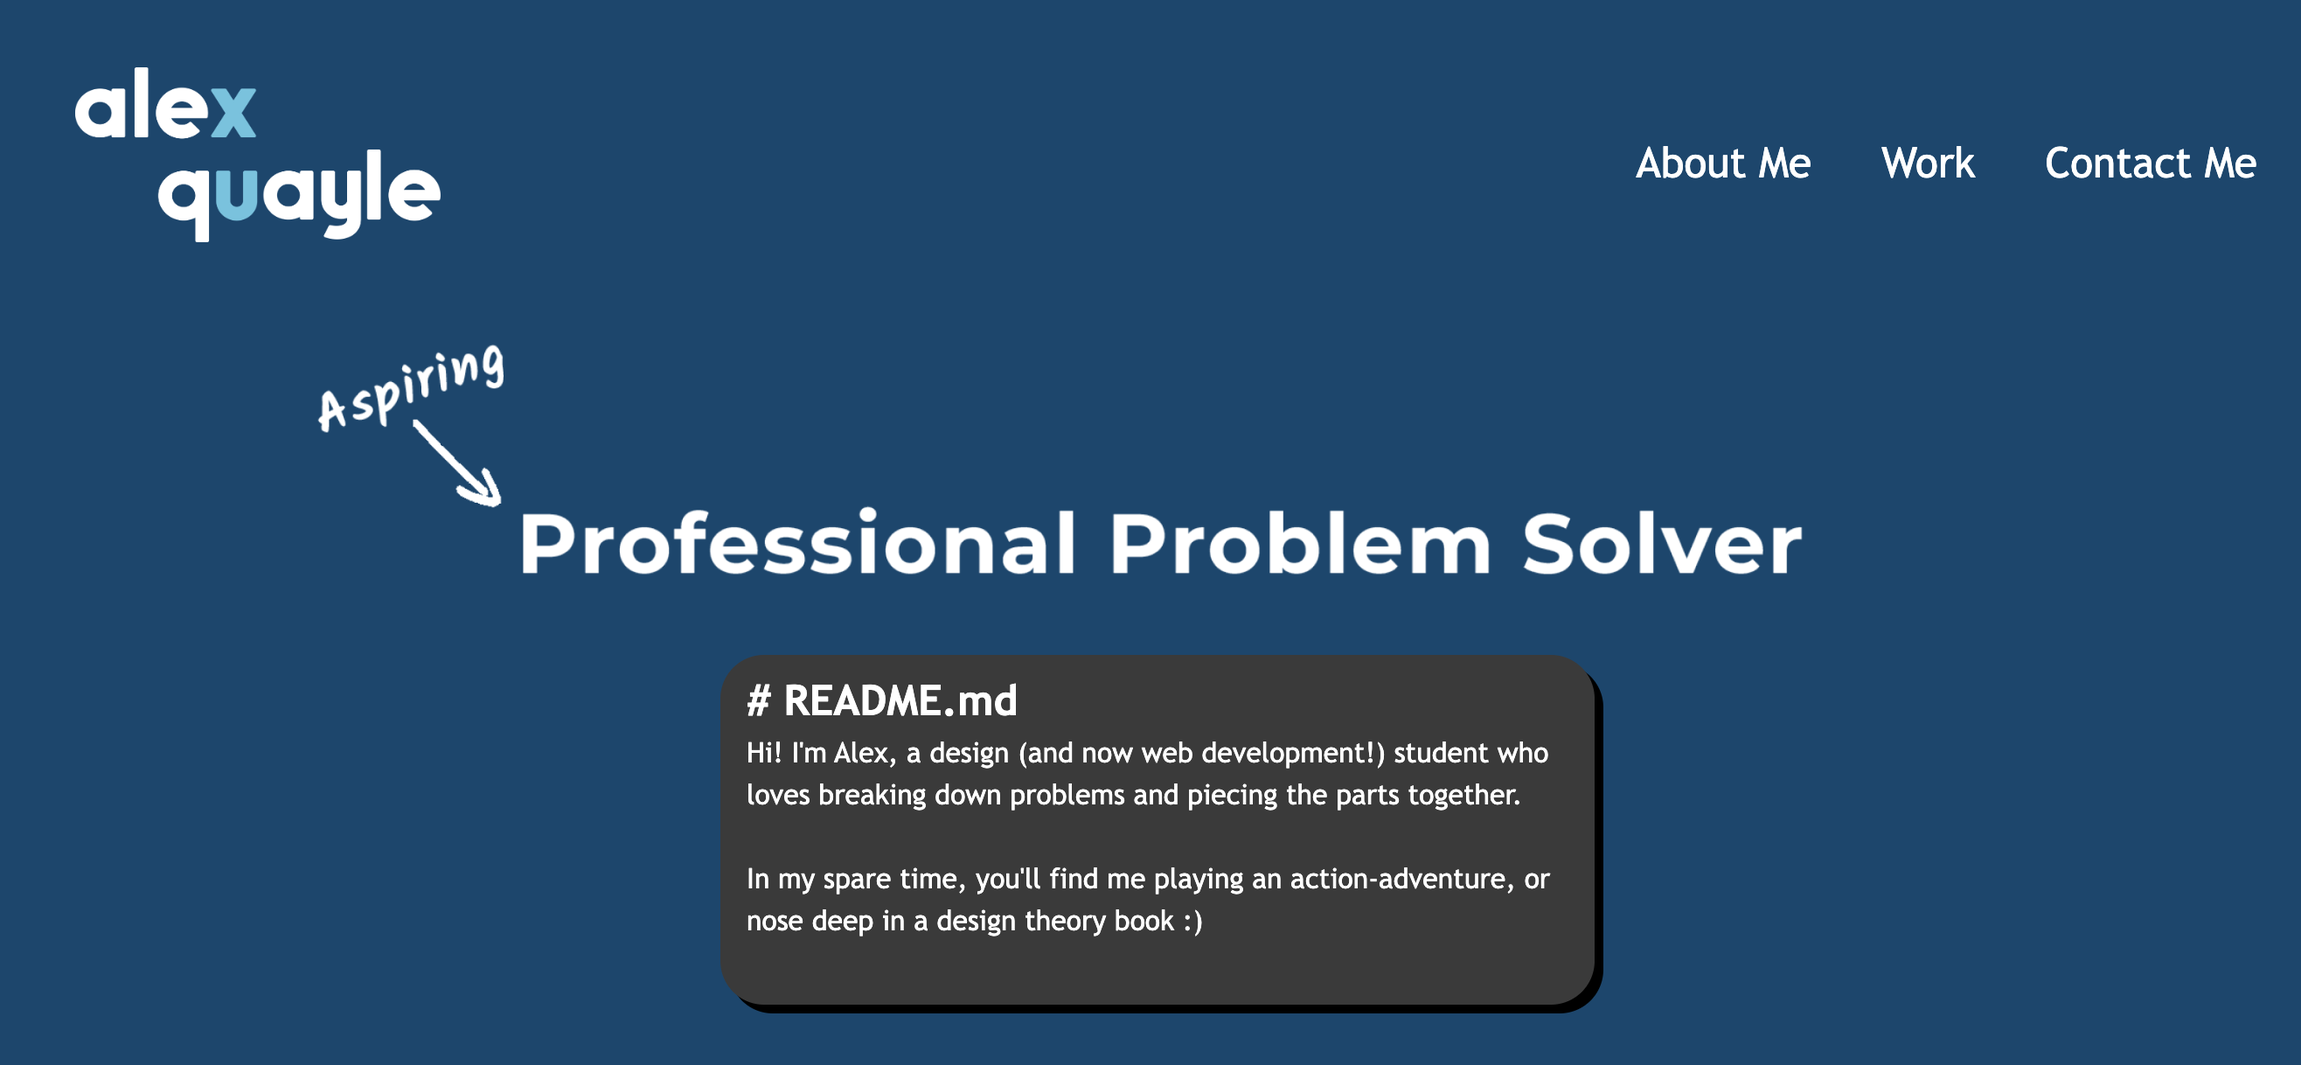
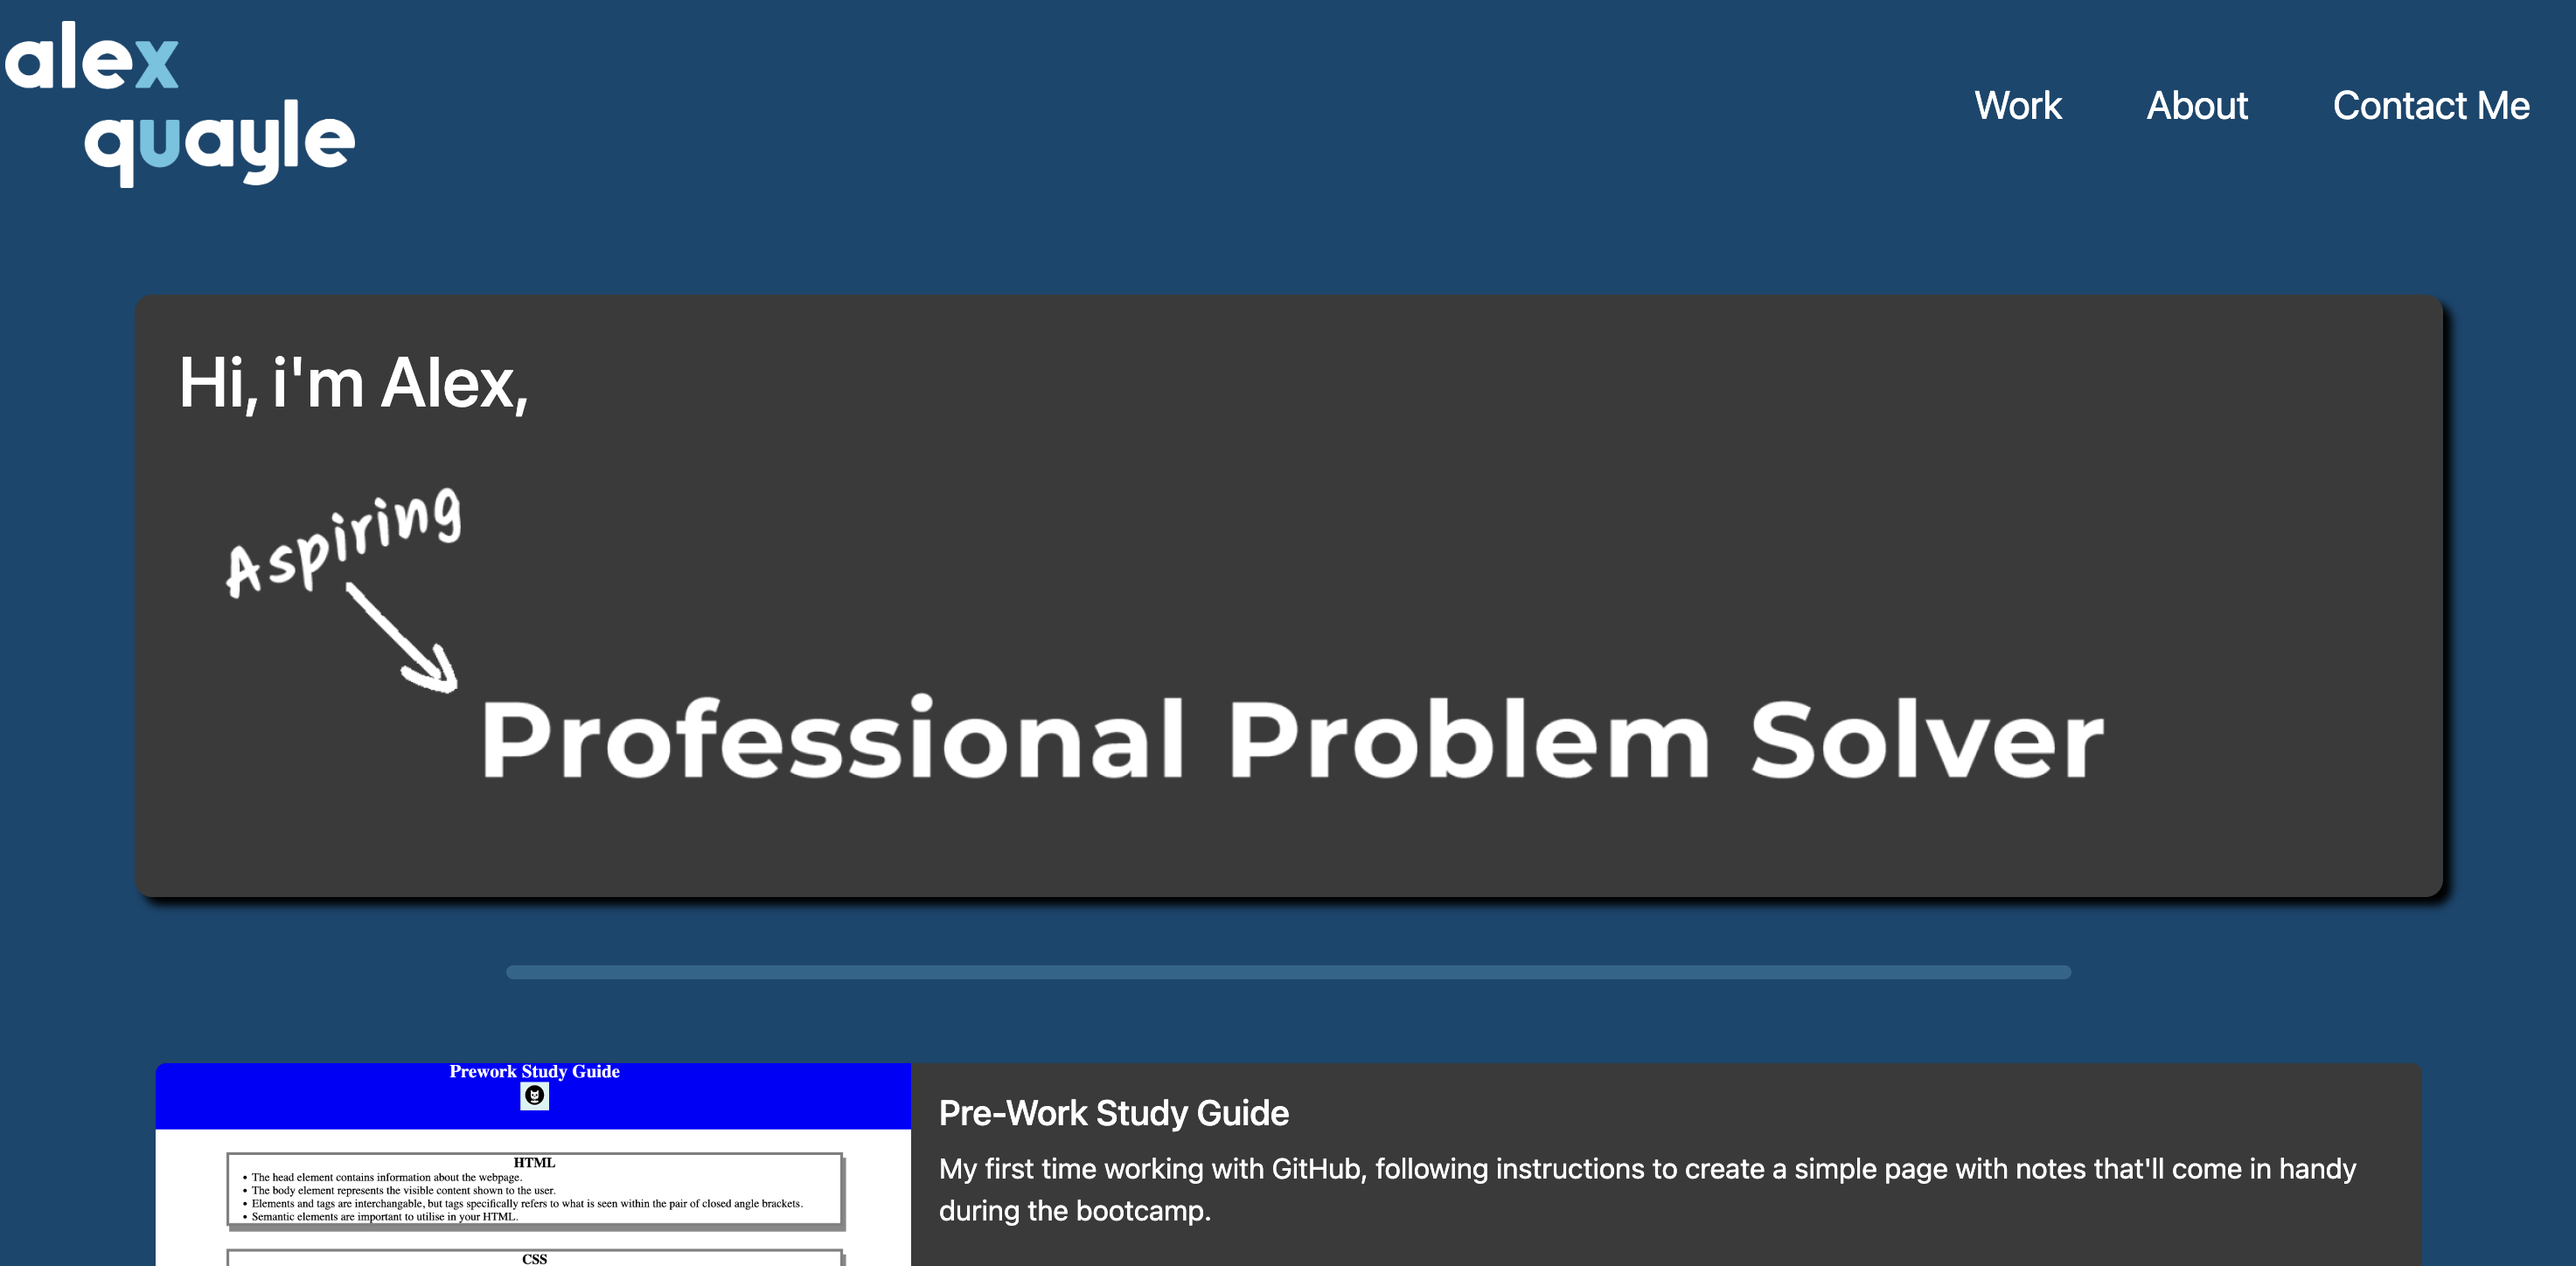
Added screenshot of new portfolio website.

diff --git a/index.html b/index.html
@@ -60,7 +60,7 @@
                 <img
                   src="./images/study-guide.png"
                   class="img-fluid rounded-start"
-                  alt="..."
+                  alt="A screenshot of above the fold of the pre-work website."
                 />
                 </a>
               </div>
@@ -72,7 +72,7 @@
                     create a simple page with notes that'll come in handy during
                     the bootcamp.
                   </p>
-                  <a href="#" class="btn btn-primary mt-5">View</a>
+                  <a href="https://github.com/Alex-Quayle/prework-study-guide" class="btn btn-primary mt-5">View</a>
                 </div>
               </div>
             </div>
@@ -86,7 +86,7 @@
                 <img
                   src="./images/horiseon.png"
                   class="img-fluid rounded-start"
-                  alt="..."
+                  alt="A screenshot of above the fold of horiseon web page."
                 />
                 </a>
               </div>
@@ -96,7 +96,7 @@
                   <p class="card-text text-start">
                     Refactored the code within the landing page project, tidying up the CSS and adding comments to make it easier for future developers to get started on making changes. Additionally, semantic HTML tags and alt text were introduced for accessibility.
                   </p>
-                  <a href="#" class="btn btn-primary mt-5">View</a>
+                  <a href="https://github.com/Alex-Quayle/horiseon-landing-page" class="btn btn-primary mt-5">View</a>
                 </div>
               </div>
             </div>
@@ -110,7 +110,7 @@
                 <img
                   src="./images/portfolio.png"
                   class="img-fluid rounded-start"
-                  alt="..."
+                  alt="A screenshot of above of the fold of the website you are currently on."
                 />
                 </a>
               </div>
